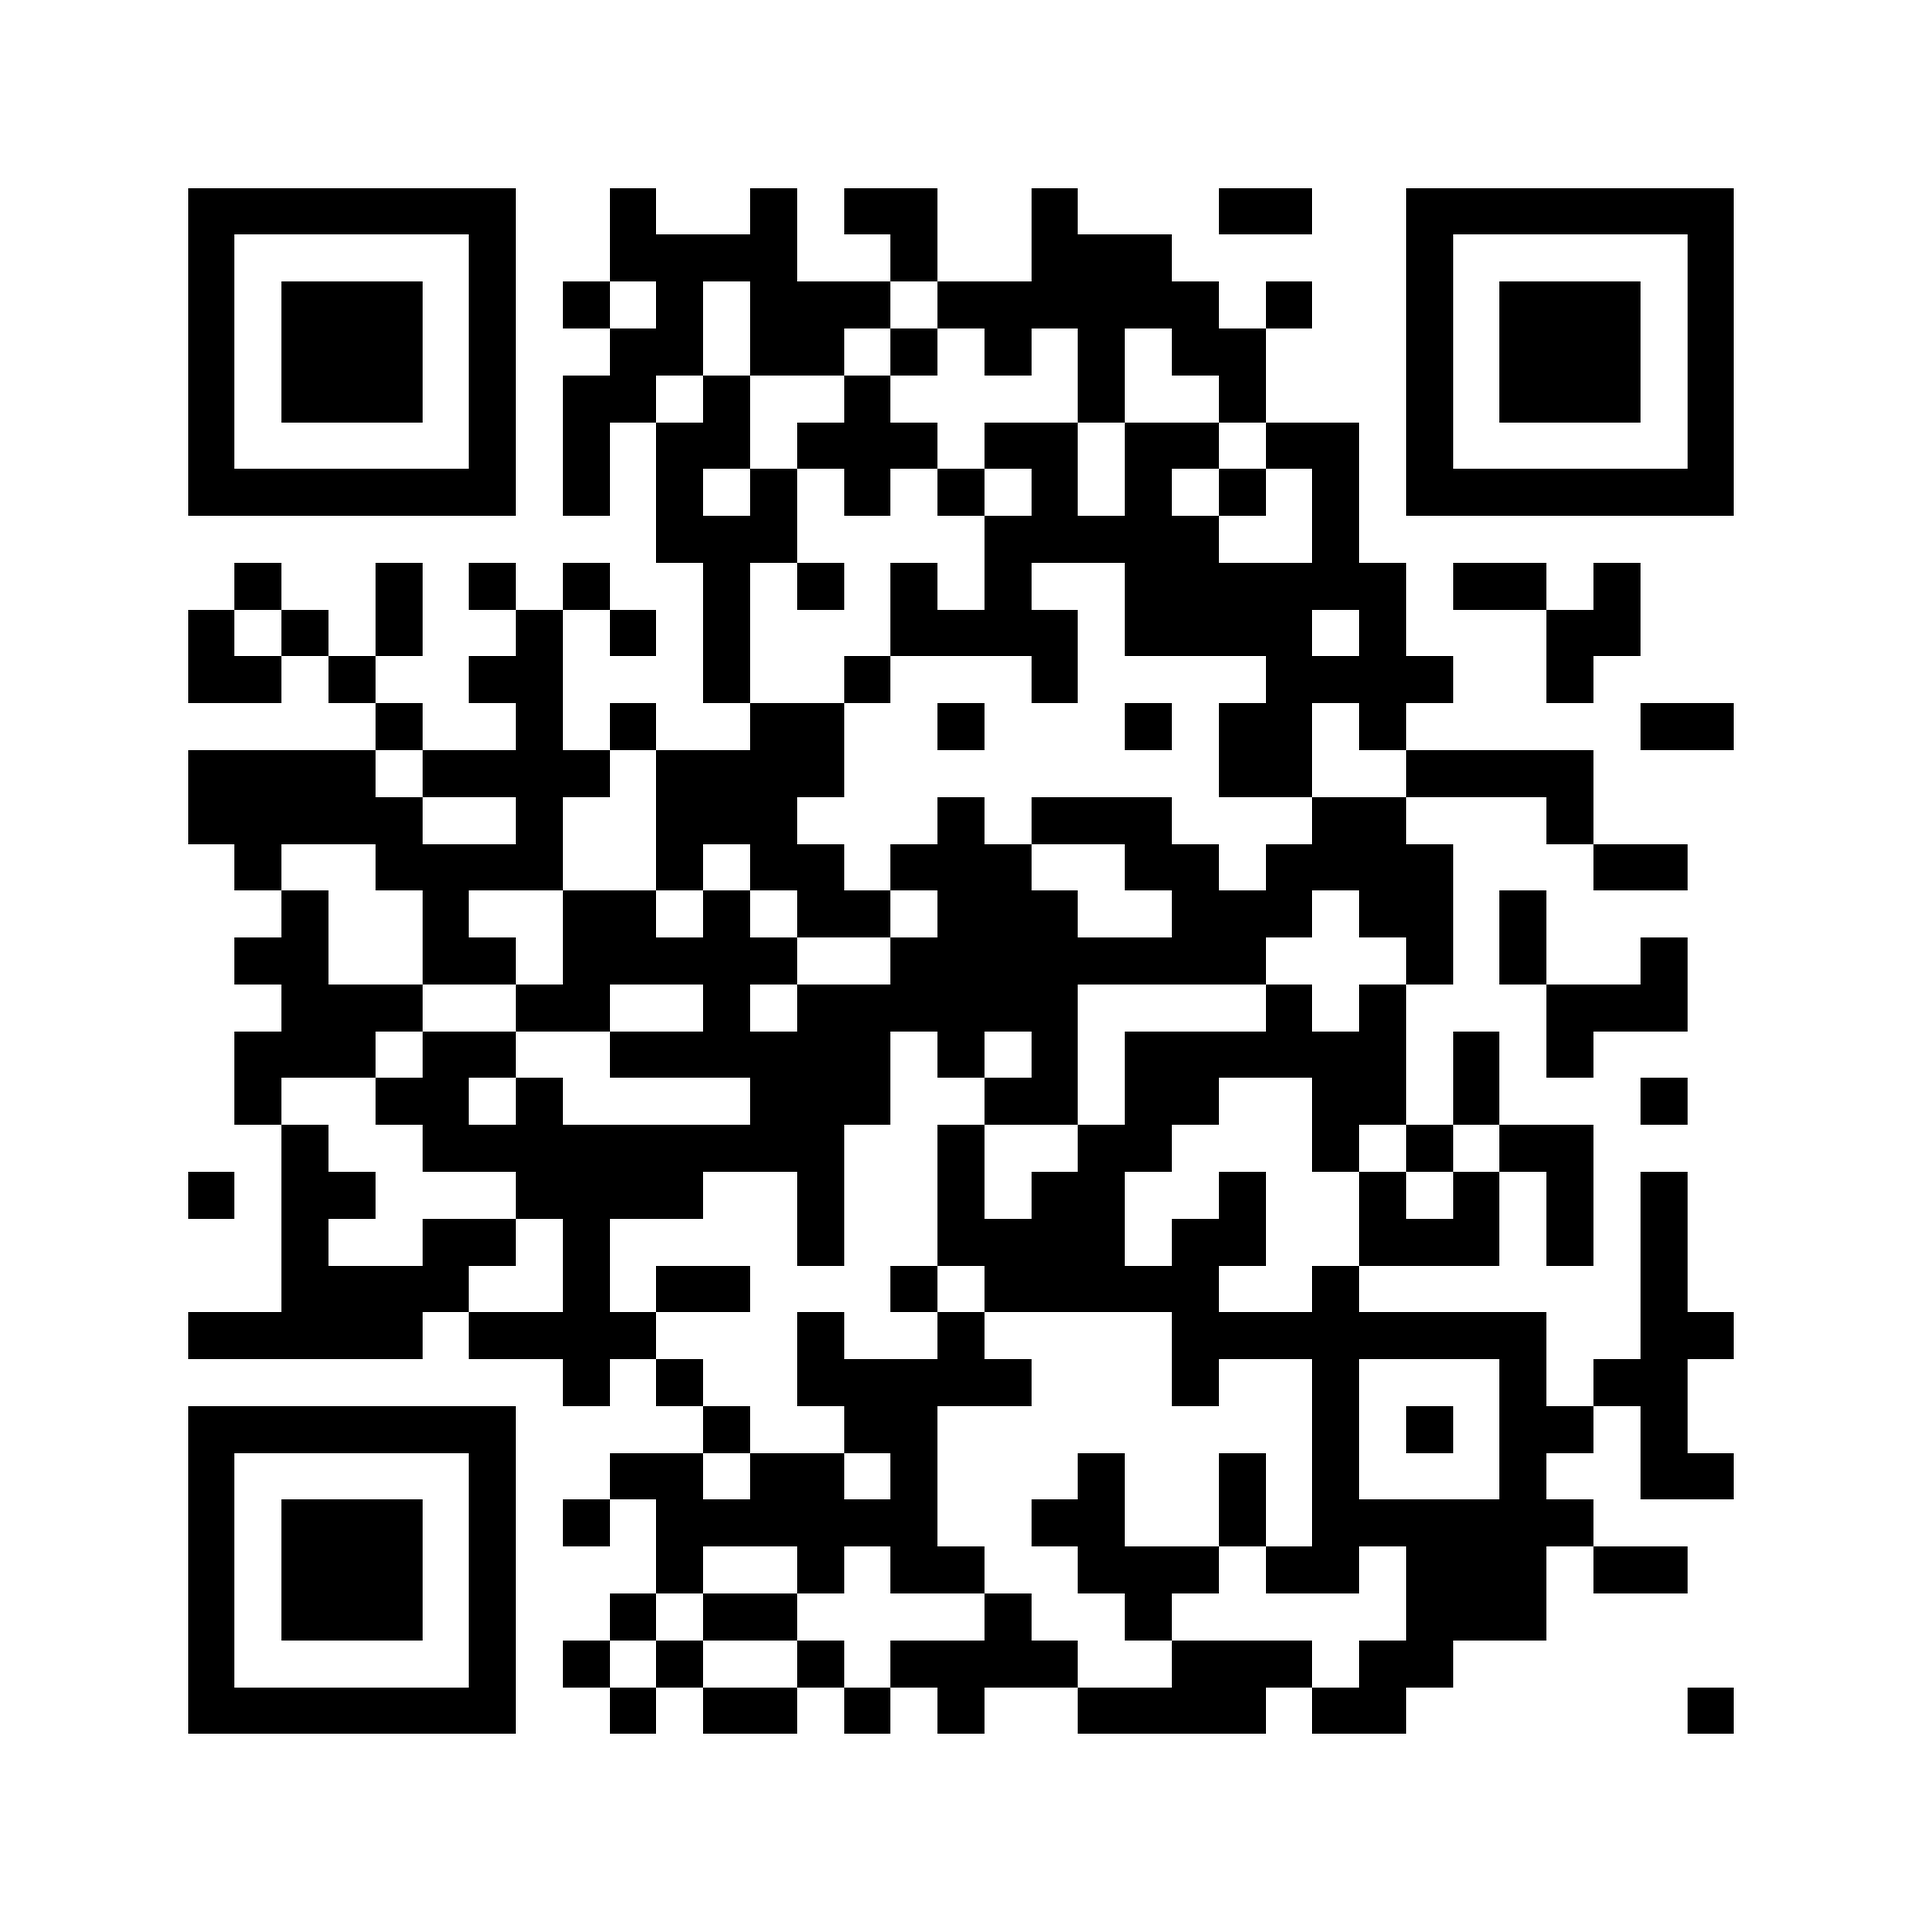
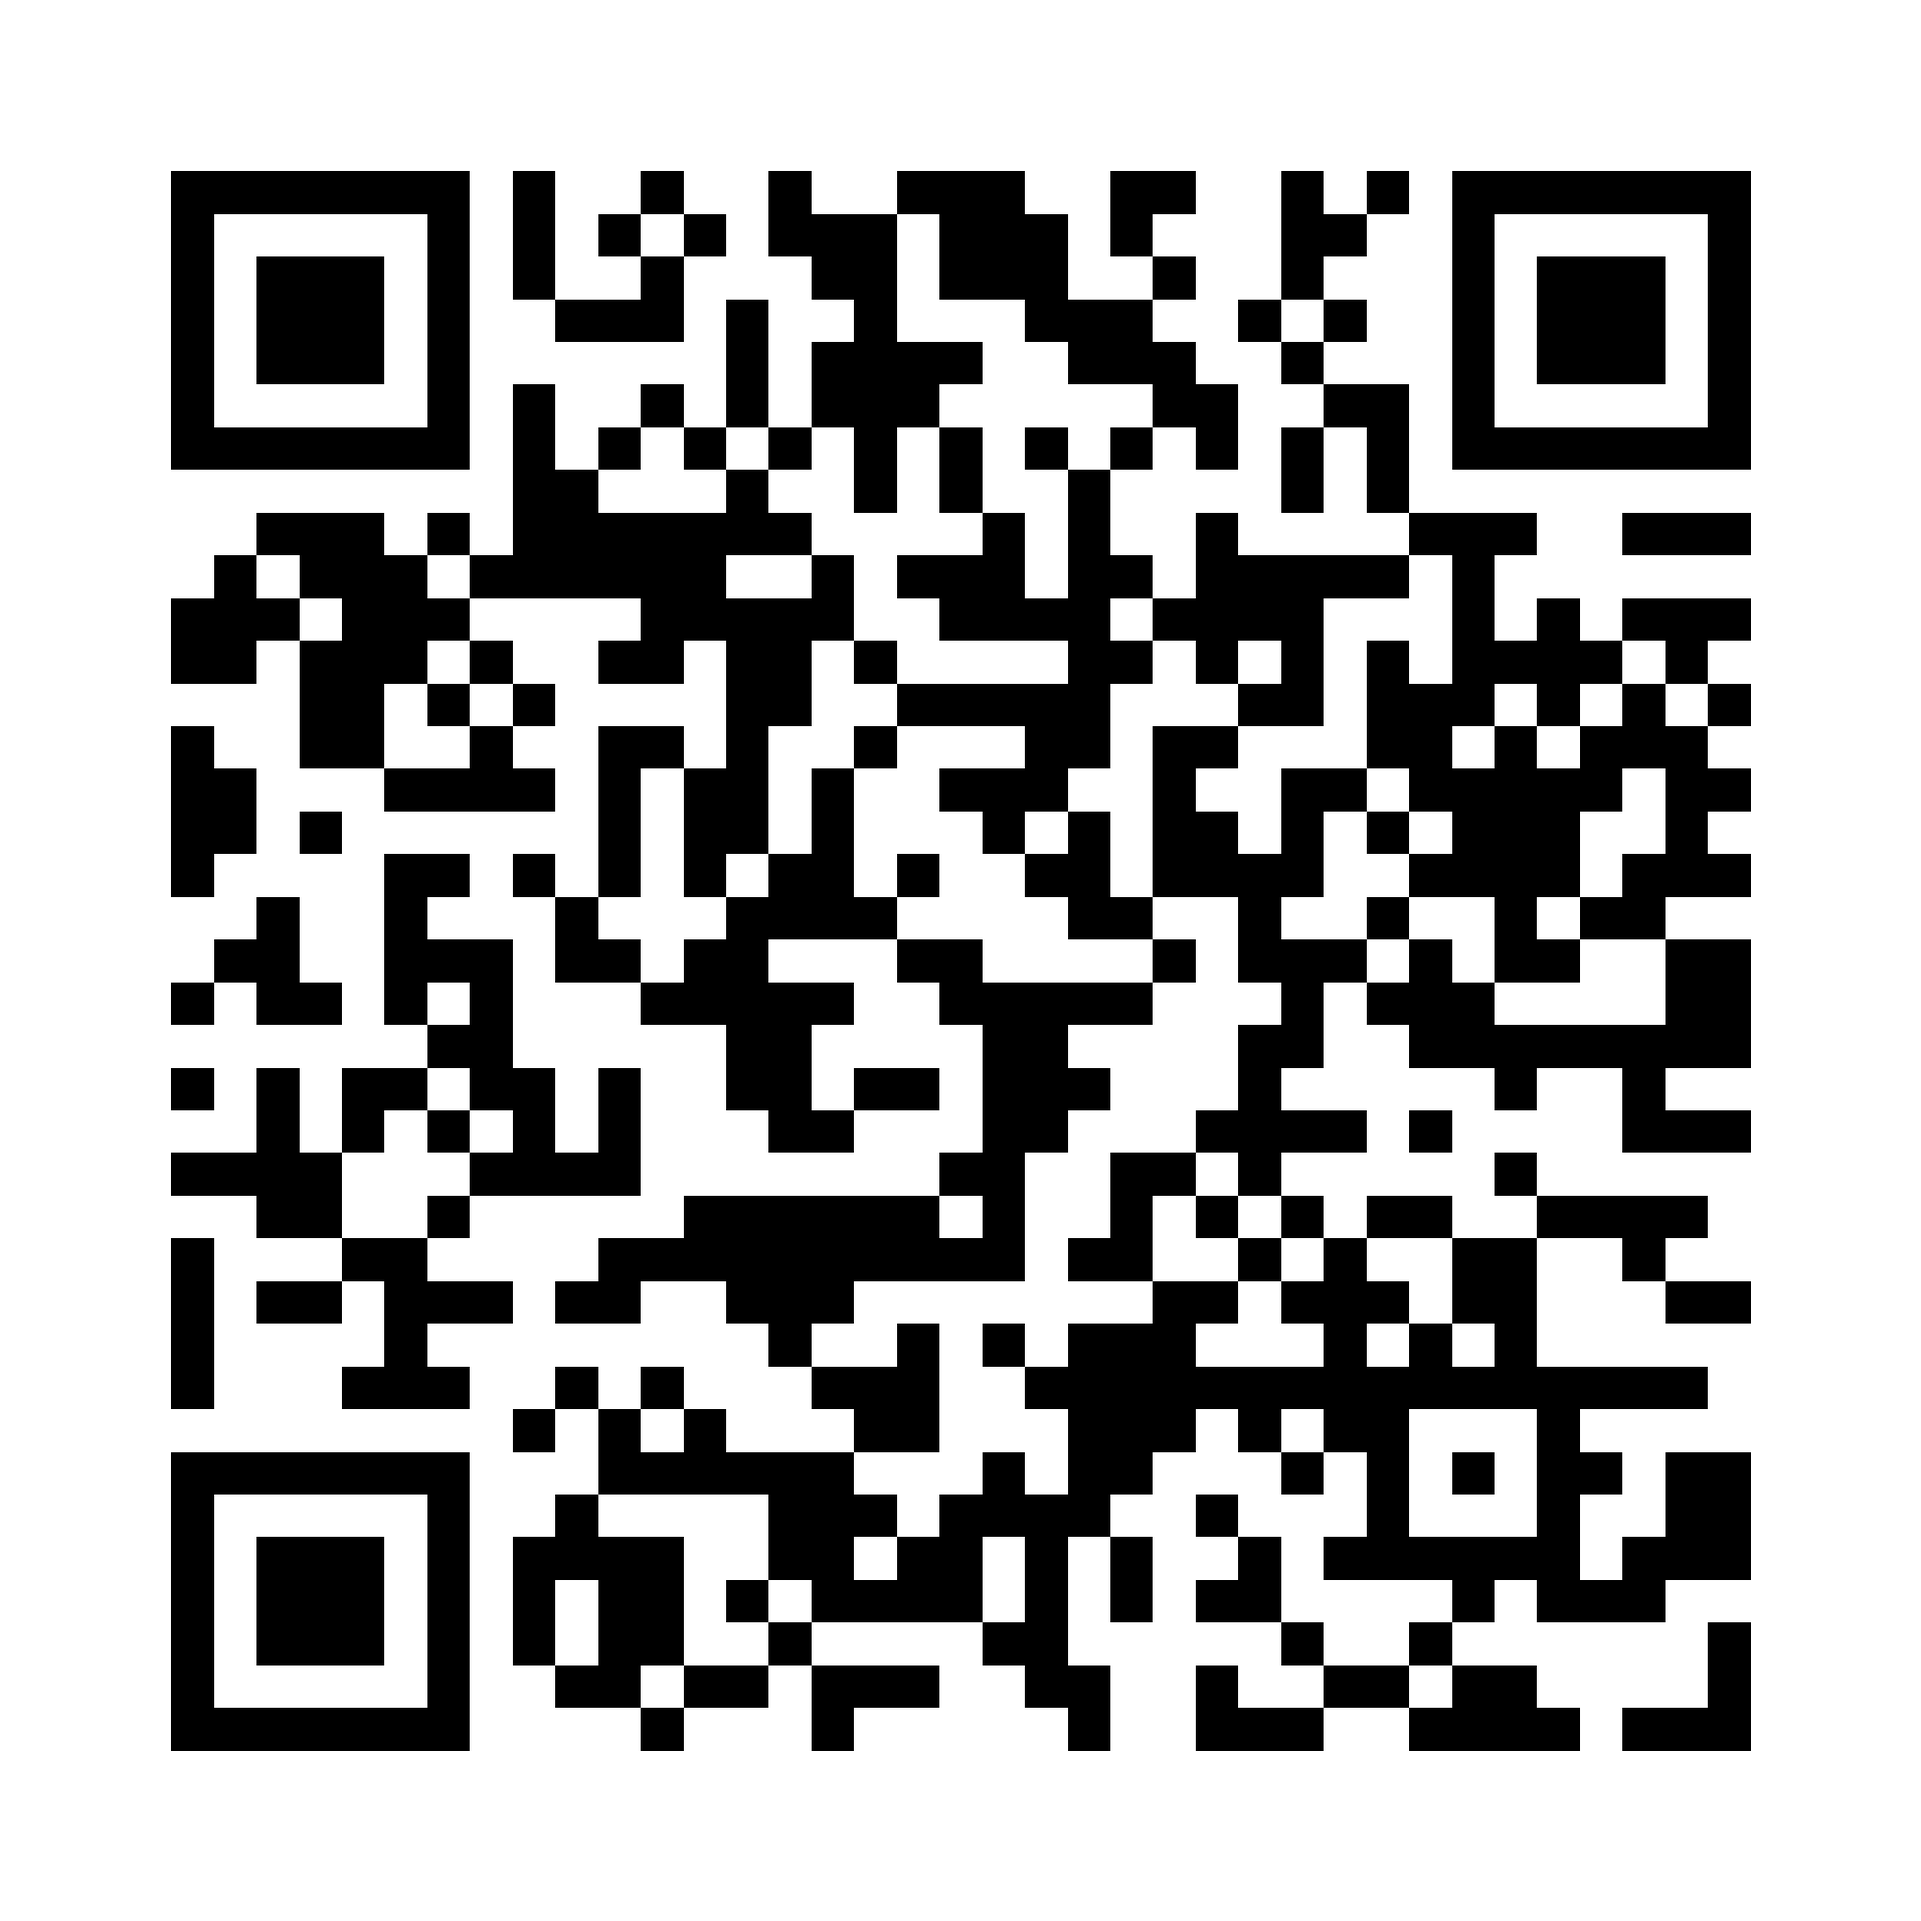
Point QR codes at /menu and document the landing page

diff --git a/README.md b/README.md
@@ -1,10 +1,14 @@
 # Legy — menu
 
-A tiny static site that shows the menu PDF as a normal web page, with no PDF
-toolbar and no page numbers. A **TR / EN** switch at the top right changes
-between the Turkish and the English menu. It is the same site as the With menu,
-with one addition for phones (see below). When a guest zooms in, the part on
-screen is redrawn so the text stays sharp.
+A small static site for Légy İstanbul with two pages:
+
+- **`/`** is the landing page: the nights, the signature cocktails, a photo
+  gallery, table reservations on WhatsApp, and the address and opening hours.
+  It has a "See the menu" button.
+- **`/menu`** shows the menu PDF as a normal web page, with no PDF toolbar and
+  no page numbers. A **TR / EN** switch at the top right changes between the
+  Turkish and the English menu. It has one addition for phones (see below).
+  When a guest zooms in, the part on screen is redrawn so the text stays sharp.
 
 ## On phones and on bigger screens
 
@@ -23,6 +27,40 @@ The parts are found automatically from the PDF each time it is opened
 (`layout.js`), so there is nothing to set up when the menu changes. The PDF
 itself is not changed.
 
+## Before launch: fill in the placeholders
+
+The landing page has made-up details that must be replaced with the real ones.
+Search for the old text to find each one.
+
+In `site.js` (at the top):
+
+- **WhatsApp number**: `WHATSAPP_NUMBER`. Digits only, with the country code and
+  no `+` or spaces, for example `905321234567`. Every "Reserve on WhatsApp"
+  button uses it. Right now it is a fake number.
+
+In `index.html`:
+
+- **Tonight line** in the first screen: "Bu gece · Kapılar 21:00" (English:
+  "Tonight · Doors 21:00").
+- **DJ lineup**: the Nights section, three cards (Resident DJ, Guest DJ,
+  Special guest) with their music styles and times.
+- **Address**: "Placeholder Sokak No: 12, Beyoğlu, İstanbul" in the Visit
+  section.
+- **Phone**: "+90 5XX XXX XX XX" in the Visit section.
+- **Opening hours**: "Çarşamba – Cumartesi" and "21:00 – 04:00" in the Visit
+  section.
+- **Map box**: the box labelled "Harita" in the Visit section is only a
+  placeholder. Replace it with a real map or a link to one.
+
+Many texts on the landing page exist in both Turkish and English. The Turkish
+text is in `index.html`; the English text is in the `EN` list near the top of
+`site.js`. If you change a text in `index.html` (the tonight line, the days of
+the opening hours, "Guest DJ" or "Special guest"), change the matching English text
+in `site.js` too, or English guests will still see the old one. The address,
+the phone, the DJ names that are already in English ("Resident DJ"), the music
+styles and the times are written once, in `index.html`, and shown in both
+languages.
+
 ## Add the menus
 
 Put the two PDFs in this folder and name them exactly:
@@ -38,12 +76,19 @@ is small.
 
 ## Languages
 
-- Guests see the Turkish menu first.
-- If a guest switches language, their phone remembers it for the next visit.
-- A link can open a language directly: add `?lang=en` (or `?lang=tr`) to the
-  address, for example for a separate English QR code.
-- To change the default or add a language, edit `MENUS` and `DEFAULT_LANGUAGE`
-  at the top of `app.js`, and add a button with the same `data-lang` in `index.html`.
+- Guests see Turkish first, on the landing page and on the menu.
+- The landing page and the menu share the guest's choice. If a guest switches
+  language on one, the other follows, and their phone remembers it for the next
+  visit.
+- A link to the menu can open a language directly: add `?lang=en` (or
+  `?lang=tr`) to `/menu`, for example `https://legyistanbul.com/menu?lang=en`
+  for a separate English QR code. Old links like `legyistanbul.com/?lang=en`
+  still work: they forward to the menu in that language.
+- To change the default language, edit `DEFAULT_LANGUAGE` at the top of both
+  `app.js` and `site.js`. Keep the two the same.
+- To add a language to the menu, edit `MENUS` at the top of `app.js` and add a
+  button with the same `data-lang` in `menu.html`. (The landing page only has
+  Turkish and English.)
 
 ## Preview locally
 
@@ -52,8 +97,10 @@ npx serve .
 # or: python3 -m http.server 8000
 ```
 
-Then open the address it prints. (Opening `index.html` by double-clicking won't
-work, because browsers block PDF loading from `file://`.) To see the phone
+Then open the address it prints. With `npx serve .` the menu is at `/menu`.
+With `python3 -m http.server` the menu is at `/menu.html` instead, because that
+server doesn't know the short address. (Opening `menu.html` by double-clicking
+won't work, because browsers block PDF loading from `file://`.) To see the phone
 column on a computer, make the browser window narrow (under about 700 px), or
 use the phone view of the browser's developer tools.
 
@@ -140,7 +187,7 @@ own price under it and that no list is cut in half.
 
 ## Optional tweaks
 
-At the top of `index.html`:
+At the top of `menu.html`:
 
 - `--bg`: the background color. It is picked automatically from the edge of
   your PDF, so you usually don't need to change it.
@@ -167,11 +214,20 @@ need to change them.
 
 ## Files
 
-- `index.html`: the page
-- `app.js`: draws the PDF and switches language
+- `index.html`: the landing page (shown at `/`)
+- `site.css`: the look of the landing page
+- `site.js`: the landing page's behavior, its English texts, and the WhatsApp number
+- `menu.html`: the menu viewer page (shown at `/menu`)
+- `app.js`: draws the PDF and switches language on the menu
 - `layout.js`: finds the parts of each page for the phone column
 - `menu-tr.pdf`, `menu-en.pdf`: the menus
+- `public/images/`: the photos and logo used on the landing page
+- `vendor/fonts/`: the fonts (Cormorant Garamond and Lato), stored locally, with their licences
 - `qr/`: print-ready QR codes (SVG for print shops, 2000 px PNG). `menu-qr` opens
-  <https://legyistanbul.com>, `menu-qr-en` opens the English menu directly.
+  the menu (<https://legyistanbul.com/menu>), `menu-qr-en` opens the English menu
+  directly (<https://legyistanbul.com/menu?lang=en>). QR codes printed before this
+  change point to `legyistanbul.com`, which now shows the landing page. It has a
+  "See the menu" button, so those codes still work (the English one still
+  forwards straight to the menu).
 - `vendor/pdfjs/`: [PDF.js](https://mozilla.github.io/pdf.js/) 6.5.438 (Mozilla's PDF renderer), stored locally so the site doesn't depend on any other server
 - `.wrangler/`: created by the deploy command to remember the Cloudflare project. It is not uploaded and is safe to delete.
